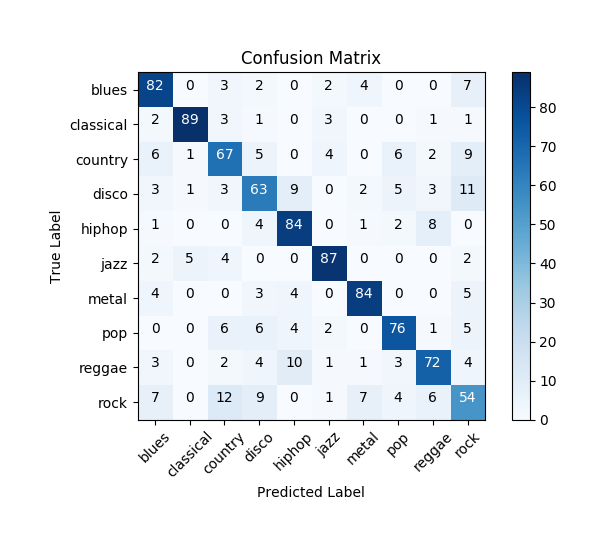
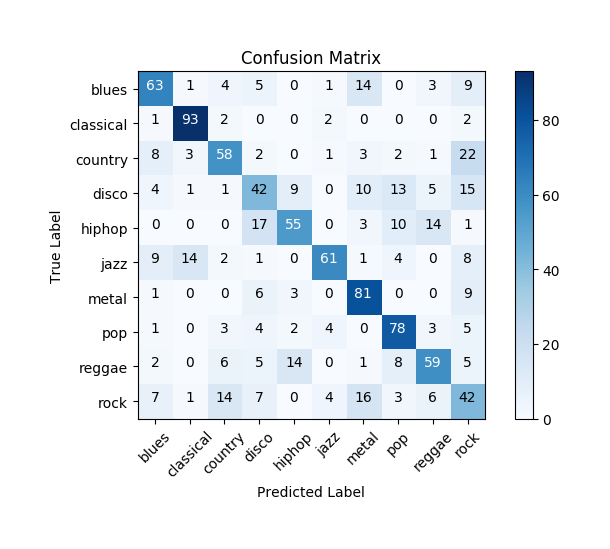
updates 30/12/2018

diff --git a/projeV2.py b/projeV2.py
@@ -675,7 +675,7 @@ class Ui_MainWindow(object):
                 classifier = KNeighborsClassifier(n_neighbors=int(self.le_knn.text()), weights='distance')
 
             if self.rb_svm.isChecked() == True:
-                classifier = SVC(kernel='poly', random_state=42, gamma=1/25) 
+                classifier = SVC(kernel='linear', random_state=42)#, gamma=1/25) 
 
             if self.rb_naive_bayes.isChecked() == True:
                 classifier = GaussianNB()
